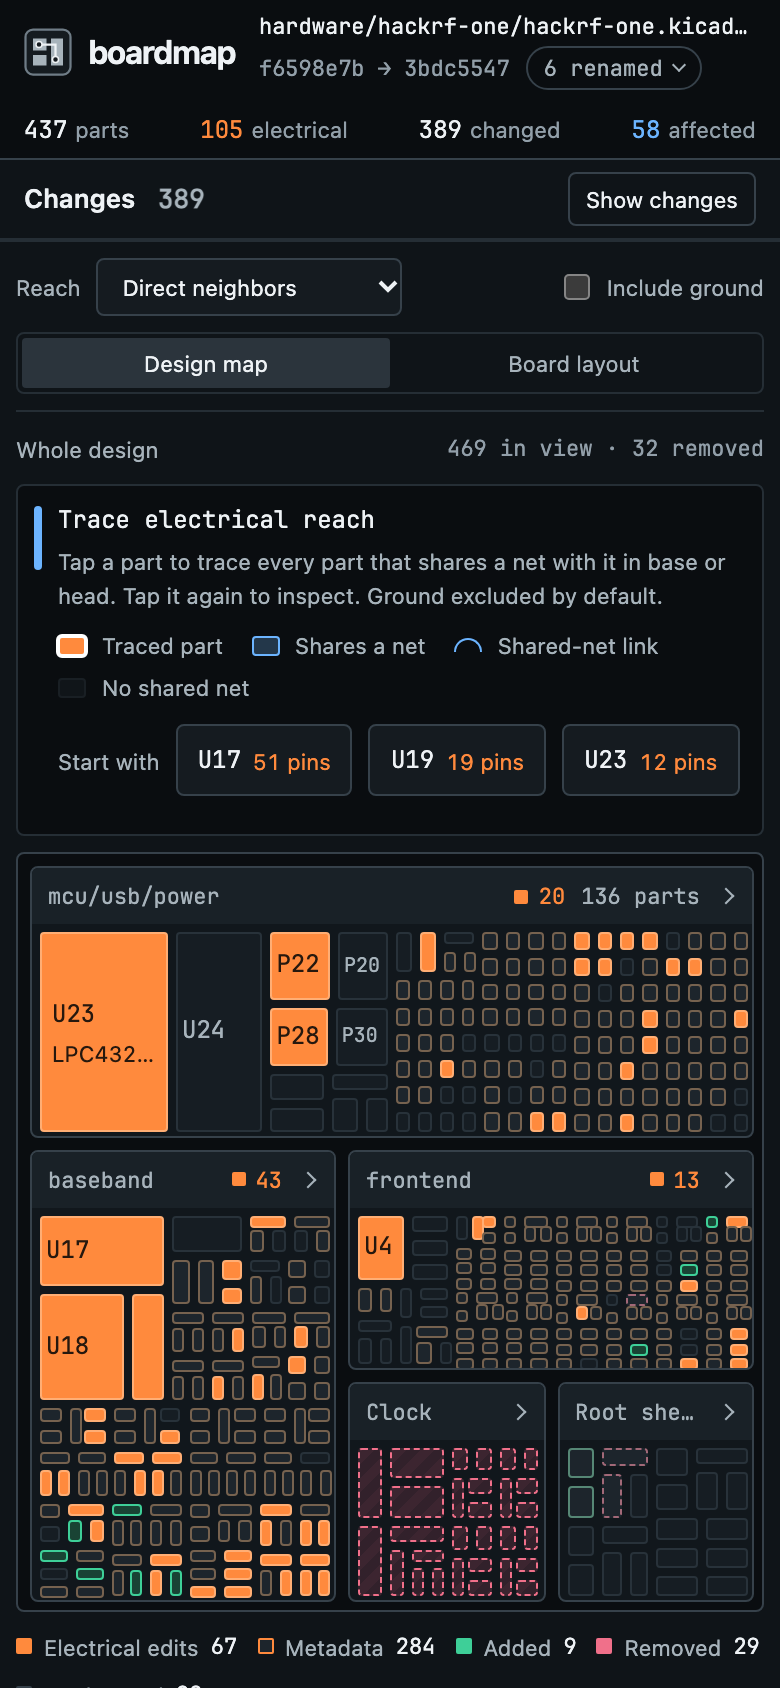
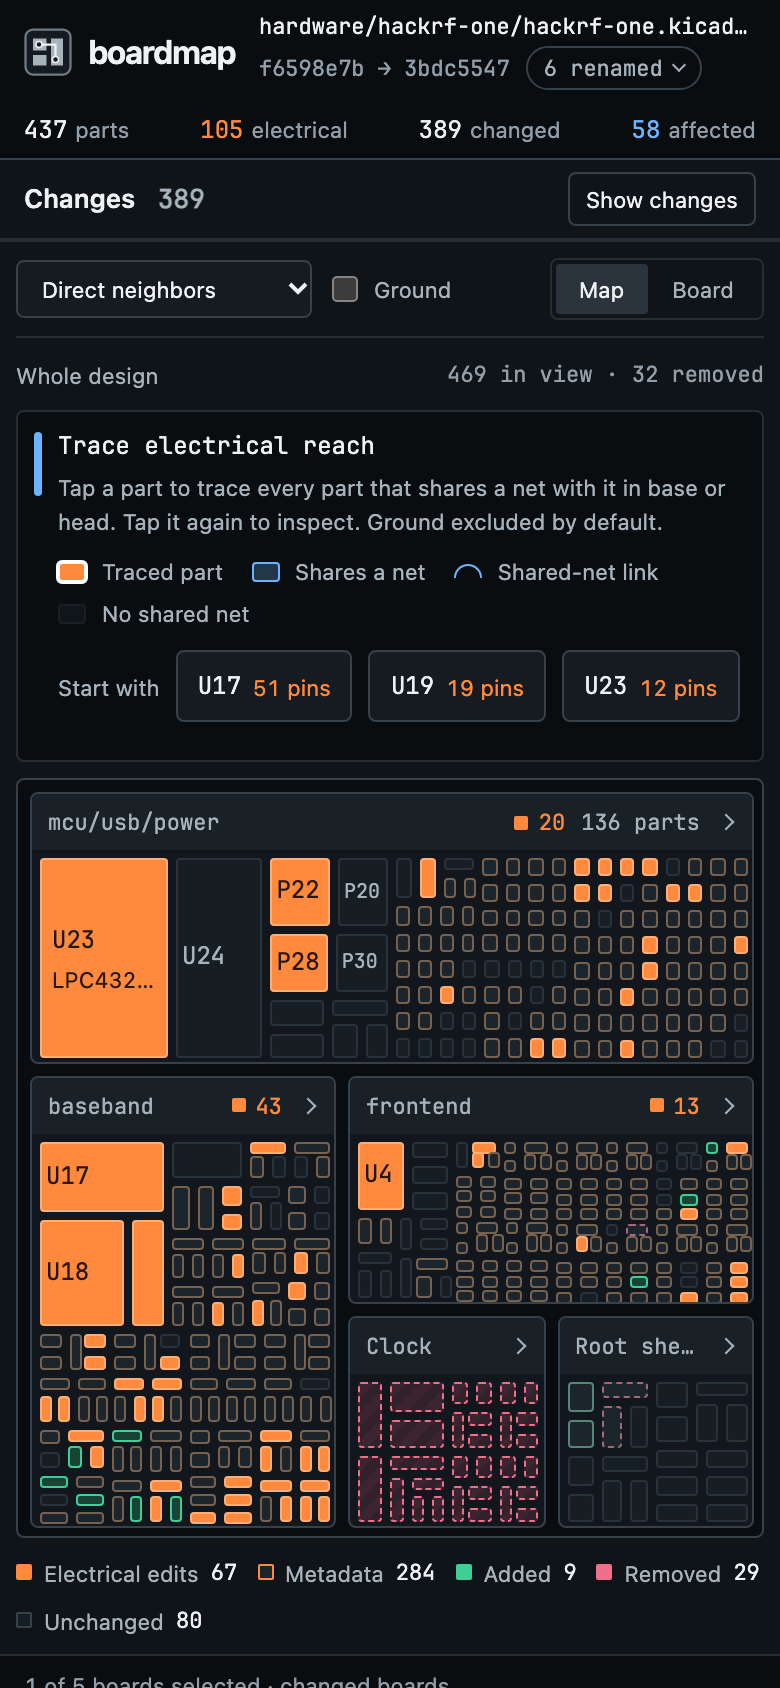
Capture the compact phone layout

Changed region(s): [[0.0, 0.154, 0.9846, 1.0]]

diff --git a/docs/media/ui/README.md b/docs/media/ui/README.md
@@ -13,10 +13,10 @@ Actual Chromium captures of the running UI on the pinned HackRF PR 1411 and Corn
 | `map/hackrf/map-idle.png`, `map/corne/map-idle.png` | 1440 × 900 | Sheet headers count their electrical changes. The legend counts every tile class in view. The idle readout holds the trace key and the three largest electrical changes. |
 | `map/hackrf/map-reach.png`, `map/corne/map-reach.png` | 1440 × 900 | Hovering U17 or ZD1 draws curves that leave and meet tiles square to their edges. |
 | `map/hackrf/sheet.png`, `map/hackrf/sheet-reach.png`, `map/corne/sheet.png`, `map/corne/sheet-reach.png` | 1440 × 900 | A drilled sheet, idle and traced. |
-| `map/hackrf/phone-idle.png`, `map/hackrf/phone-preview.png` | 390 × 844 | The phone readout keeps one height. Idle, it holds the key and the starting parts. After a tap, it holds the trace and the Open diff action. |
+| `map/hackrf/phone-idle.png`, `map/hackrf/phone-preview.png` | 390 × 844 | The phone readout keeps one height. Idle, it holds the key and the starting parts. After a tap, it holds the trace and the Open diff action. Reach, ground and the view switch share one row, so the map starts in the upper half of the screen. |
 | `sidebar/list-desktop.png` | 1440 × 900 | Each change takes two lines, so eleven rows fit where eight did. Group headings stay pinned while the list scrolls. The keyboard help is two lines of key caps. |
 | `sidebar/list-selected.png` | 1440 × 900 | The inspected part keeps an orange edge in the list. |
-| `sidebar/list-phone.png` | 390 × 844 | The expanded phone list uses the same two-line rows. |
+| `sidebar/list-phone.png` | 390 × 844 | The expanded phone list uses the same two-line rows and takes most of the screen. |
 
 Recordings of drill-in, drill-out and curve motion are on the `pr-assets` branch, outside the installed package and the main history.
 
